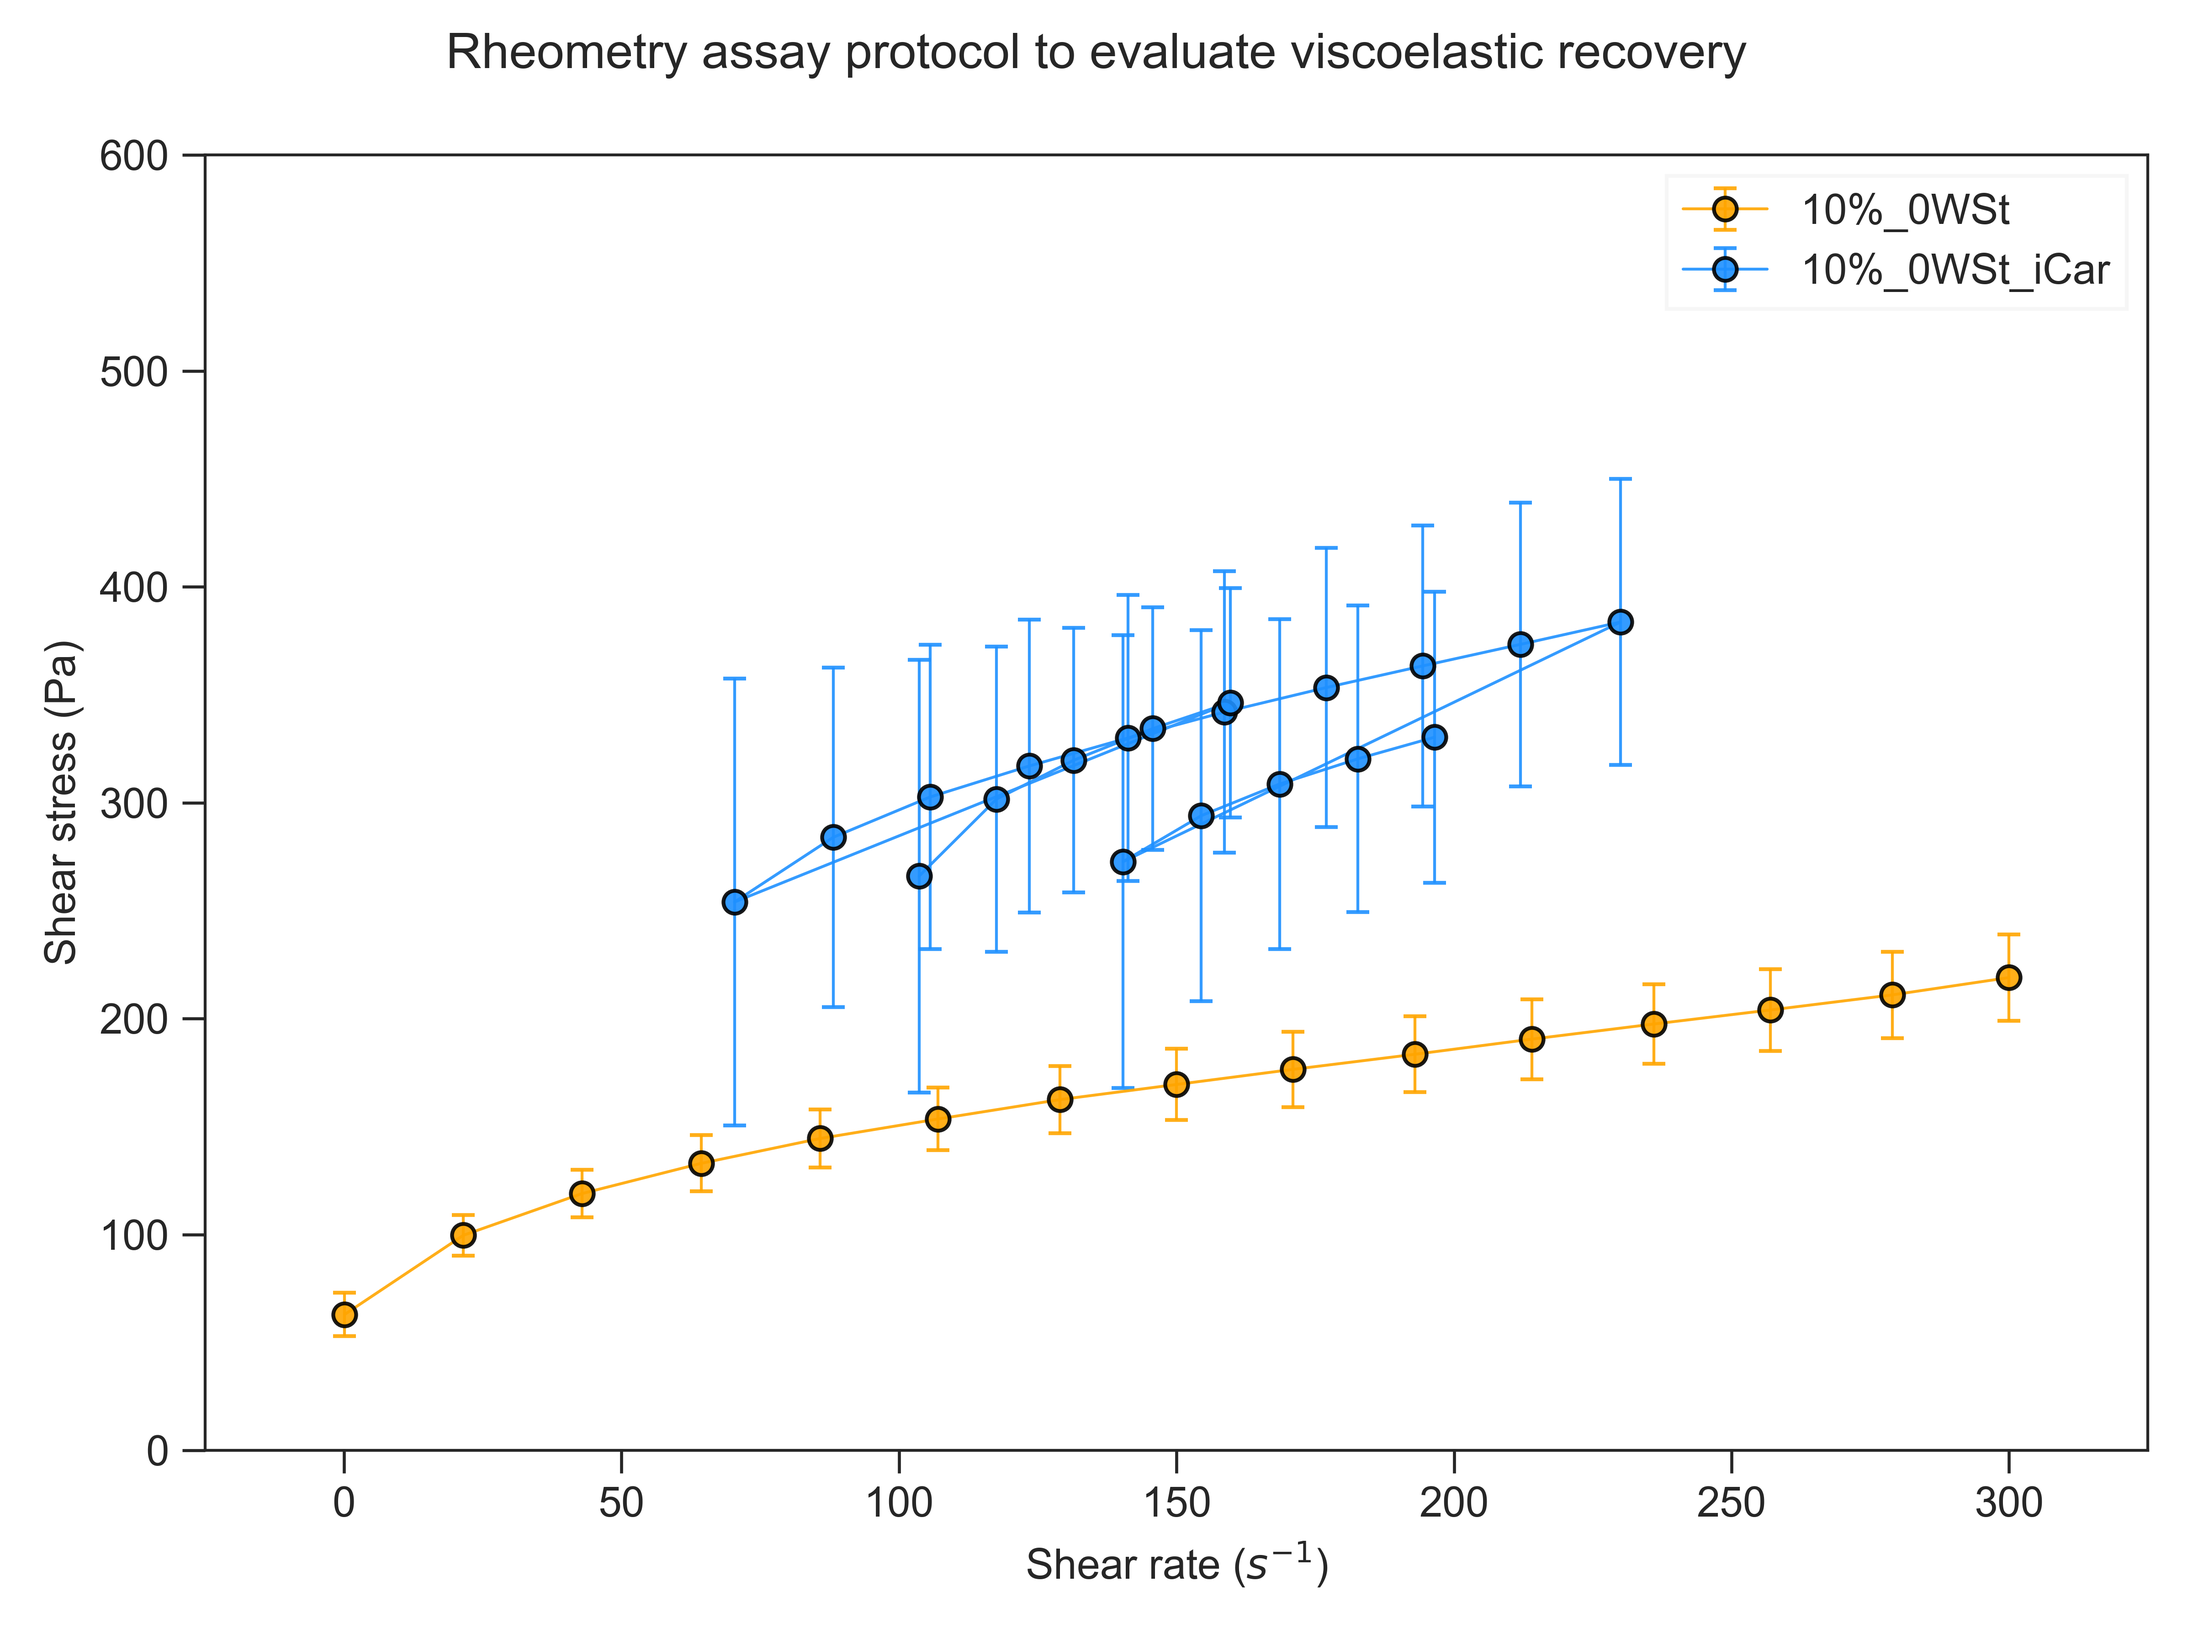
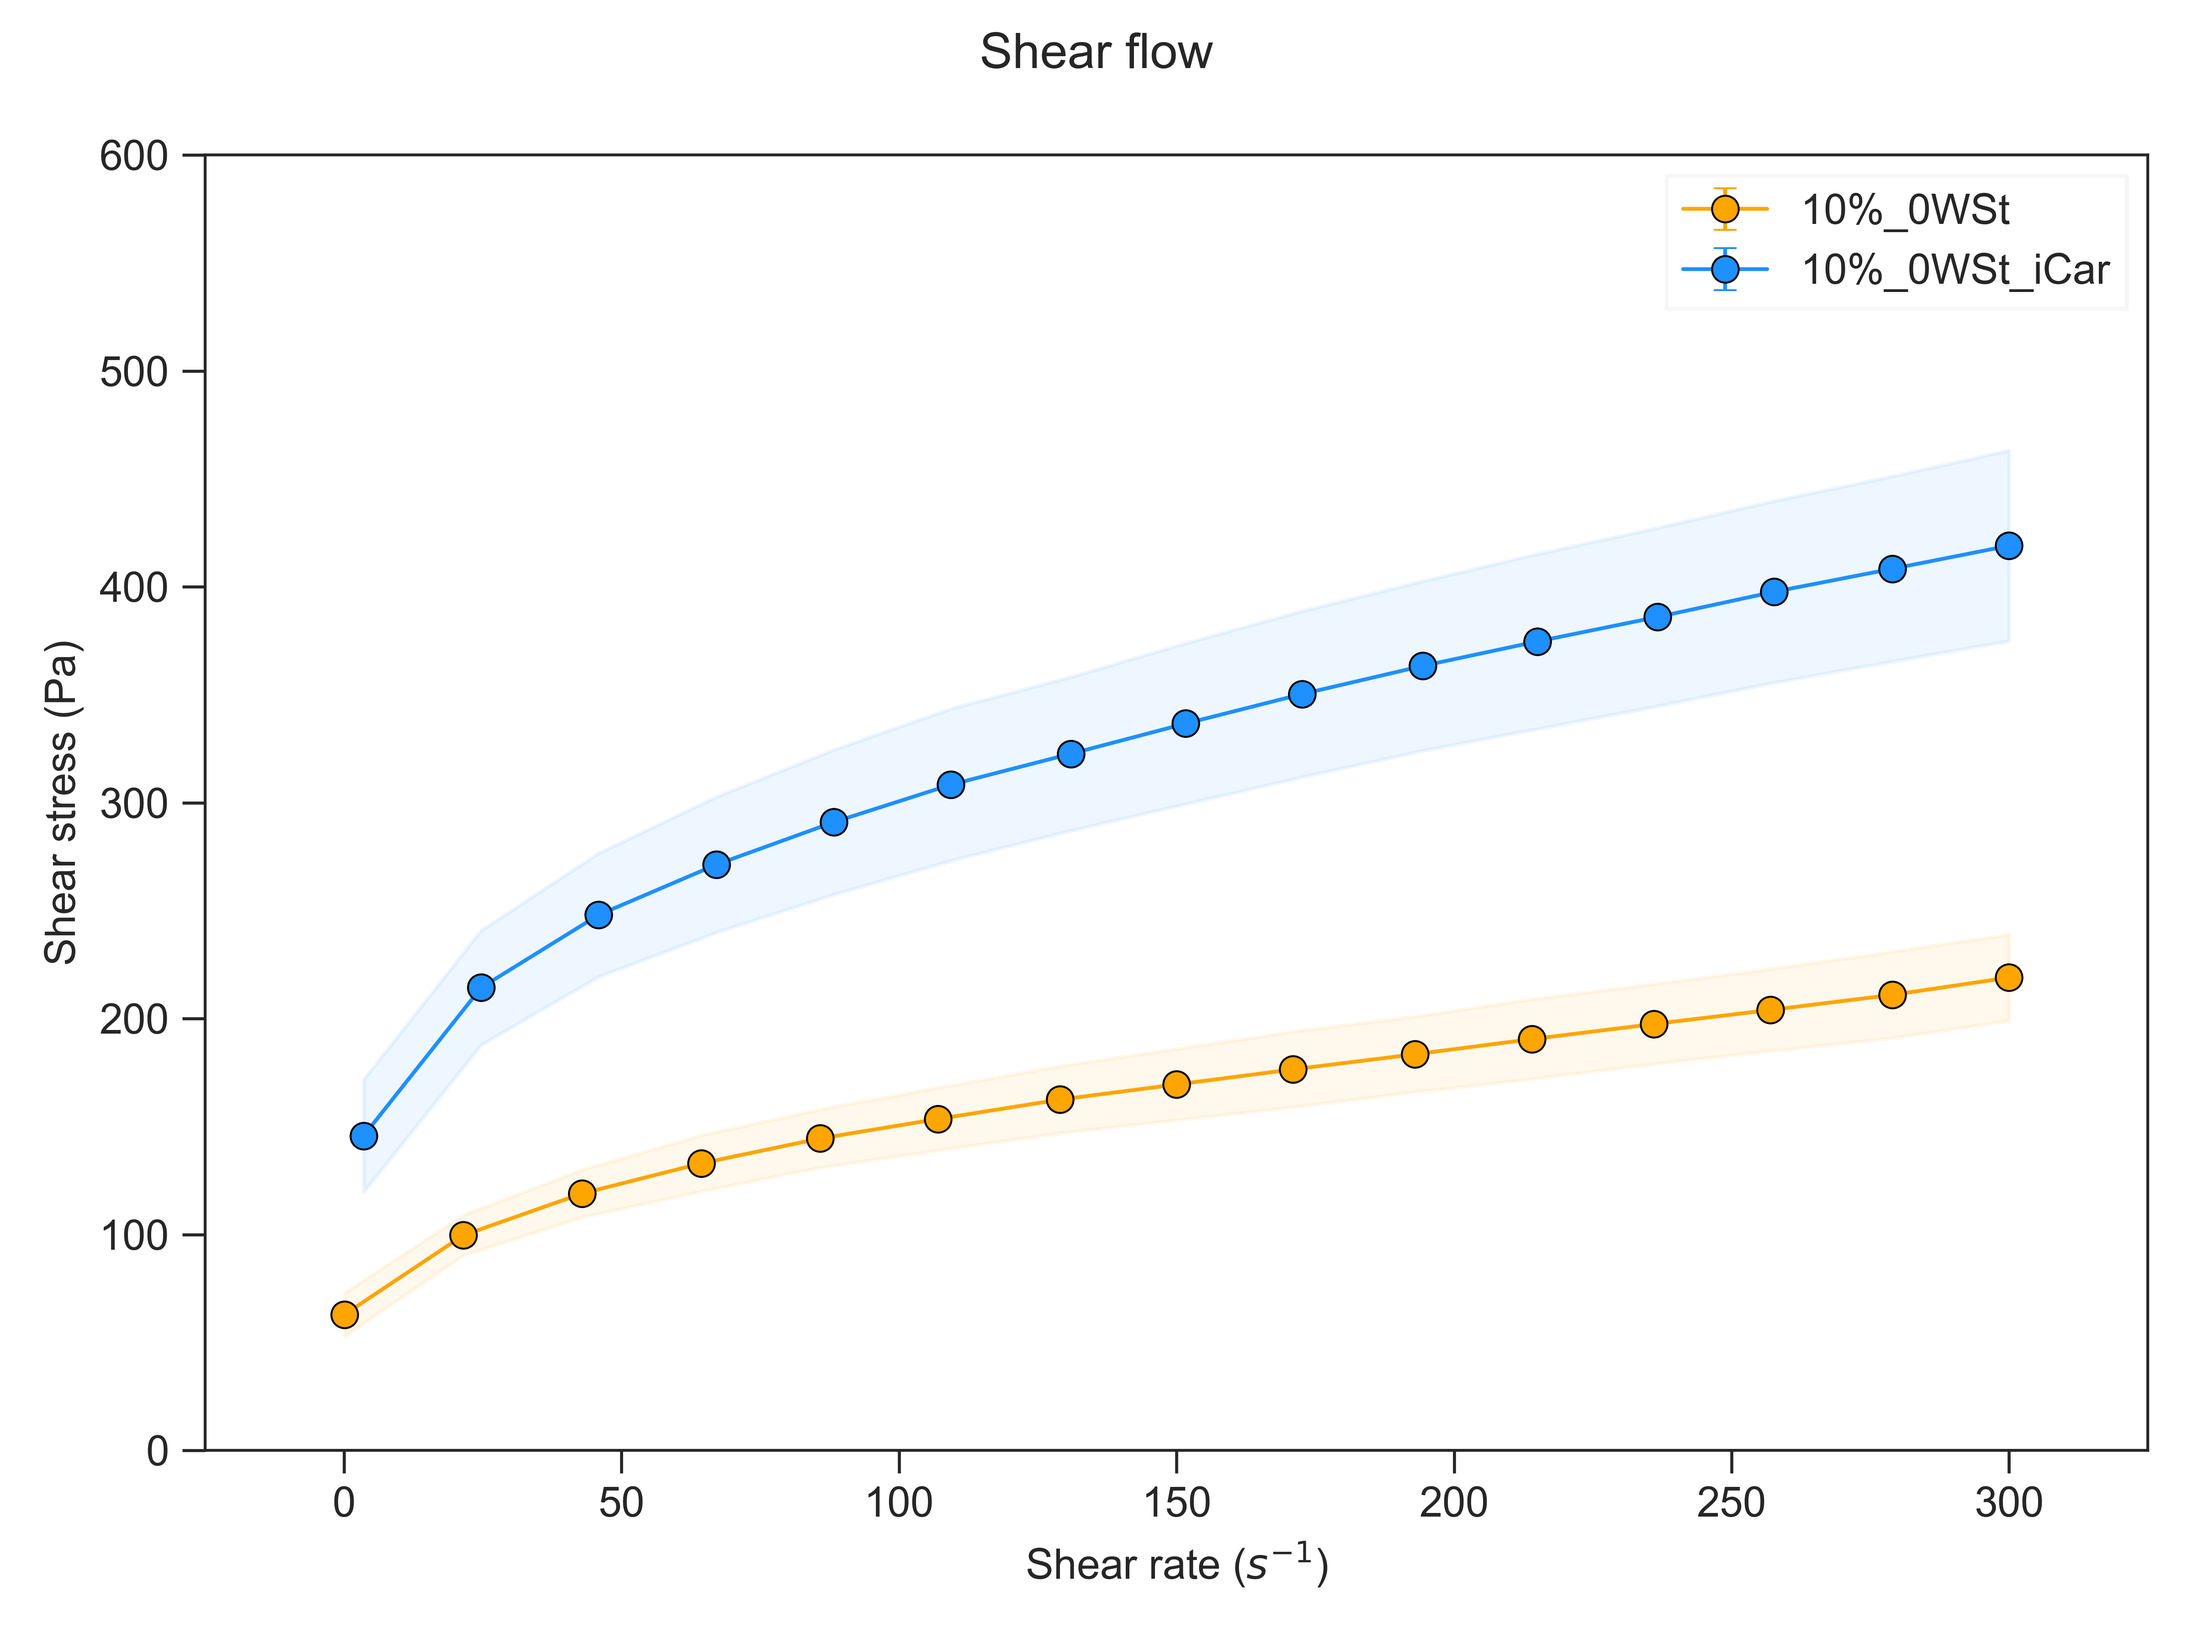
fix sample #3 and conclude code. Falta plotar o fit

diff --git a/custom plots/Plot-ShearFlow.py b/custom plots/Plot-ShearFlow.py
@@ -124,13 +124,19 @@ def getSamplesValues(dataPath, nSamplesWSt, nSamplesWStICar):
         else:
             _, indRateWStICar, indStressWStICar = dataFlow(df)
 
-            rateWStICarCte, rateWStICarDec = (np.append(rateWStICarCte, indRateWStICar[0]),
-                                              np.append(rateWStICarDec, indRateWStICar[1]))
+            if sample == 3:
+                rateWStICarCte, rateWStICarDec = (np.append(rateWStICarCte, indRateWStICar[0][::2]),
+                                                  np.append(rateWStICarDec, indRateWStICar[1][::2]))
 
-            stressWStICarCte, stressWStICarDec = (np.append(stressWStICarCte, indStressWStICar[0]),
-                                                  np.append(stressWStICarDec, indStressWStICar[1]))
+                stressWStICarCte, stressWStICarDec = (np.append(stressWStICarCte, indStressWStICar[0][::2]),
+                                                      np.append(stressWStICarDec, indStressWStICar[1][::2]))
+            else:
+                rateWStICarCte, rateWStICarDec = (np.append(rateWStICarCte, indRateWStICar[0]),
+                                                  np.append(rateWStICarDec, indRateWStICar[1]))
 
-    # Armazenar os resultados no dicionário final
+                stressWStICarCte, stressWStICarDec = (np.append(stressWStICarCte, indStressWStICar[0]),
+                                                      np.append(stressWStICarDec, indStressWStICar[1]))
+
     # Cte shear rate data
     #   Pure starch
     (dictCteRate['rateWStCte'],
@@ -140,10 +146,9 @@ def getSamplesValues(dataPath, nSamplesWSt, nSamplesWStICar):
                                                               stressWStCte.shape[0] // nSamplesWSt))
     #   Starch + iCar
     (dictCteRate['rateWStICarCte'],
-     dictCteRate['stressWStICarCte']) = (rateWStICarCte[2:].reshape(nSamplesWStICar,
-                                                                    rateWStICarCte[2:].shape[0] // nSamplesWStICar),
-                                         stressWStICarCte[2:].reshape(nSamplesWStICar,
-                                                                      stressWStICarCte[2:].shape[0] // nSamplesWStICar))
+     dictCteRate['stressWStICarCte']) = (
+    rateWStICarCte.reshape(nSamplesWStICar, rateWStICarCte.shape[0] // nSamplesWStICar),
+    stressWStICarCte.reshape(nSamplesWStICar, stressWStICarCte.shape[0] // nSamplesWStICar))
 
     # Decreasing shear rate data
     #   Pure starch
@@ -183,24 +188,23 @@ def dataFlow(dataframe):
 
 def plotFlow(
         ax, x, y, yErr,
-        axTitle, textSize, curveColor,
-        sampleName,
+        axTitle, curveColor, sampleName,
+        logScale=False,
         yFlowLim=(0, 600)
 
 ):
     """Plots the Flow Shearing Assay."""
     ax.set_title(axTitle, size=9, color='crimson')
     ax.spines[['top', 'bottom', 'left', 'right']].set_linewidth(0.75)
-
     ax.set_xlabel('Shear rate ($s^{-1}$)')
+    ax.set_xscale('log' if logScale else 'linear')
     # ax.set_xticks([cteShear])
     # ax.set_xticklabels([f'{cteShear} s'])
     ax.set_xlim([-25, +325])
-
     ax.set_ylabel('Shear stress (Pa)')
+    ax.set_yscale('log' if logScale else 'linear')
     ax.set_ylim(yFlowLim)
     # ax.set_yticks([])
-    # ax.set_yscale('log')
     # Plot cte strain rate rectangle/line
     # textCoord, textLabel = ((np.median(timeCteShear), 5),
     #                         'Constant strain rate\n$\dot{γ}=300 \,\,\, s^{-1}$')
@@ -218,11 +222,18 @@ def plotFlow(
     #         horizontalalignment='center', verticalalignment='bottom',
     #         color='k', size=textSize)
 
-    # Plot data
+    ax.fill_between(
+        (np.array(x, dtype=float)), (np.array(y, dtype=float) - yErr), (np.array(y, dtype=float) + yErr),
+        color=curveColor, alpha=0.075,
+        zorder=1)
+    # label=f'{sampleName} - Desvio Padrão', zorder=1)
+
     ax.errorbar(
-        x, y, yerr=yErr, alpha=0.9, lw=.75, linestyle='-',
-        color=curveColor, mec='k', fmt='o', markersize=6,
-        label=sampleName, zorder=3, capsize=3)
+        x, y, yerr=0, color=curveColor, alpha=1,
+        fmt='o', markersize=7, mec='k', mew=0.5,
+        capsize=3, lw=1, linestyle='-',  # ecolor='k'
+        label=sampleName, zorder=3)
+
     legendLabel(ax)
 
 
@@ -244,7 +255,7 @@ def mainPlot(dataPath):
 
     plt.style.use('seaborn-v0_8-ticks')
     fig, axes = plt.subplots(figsize=(8, 6), facecolor='w', ncols=1)
-    fig.suptitle(f'Rheometry assay protocol to evaluate viscoelastic recovery')
+    fig.suptitle(f'Shear flow')
 
     #  Plot 10% WSt
     xWSt, yWSt, yWStErr = (np.mean(decreasingShear['rateWStDec'], axis=0),
@@ -252,7 +263,7 @@ def mainPlot(dataPath):
                            np.std(decreasingShear['stressWStDec'].astype(float), axis=0))
     plotFlow(
         axes, xWSt, yWSt, yWStErr,
-        axTitle='', textSize=9.2, curveColor='orange',
+        axTitle='', curveColor='orange',
         sampleName='10%_0WSt')
 
     #  Plot 10% WSt + iCar  # TODO: consertar o nro de pontos na amostra 10%_0WSt_iCar_3
@@ -262,7 +273,7 @@ def mainPlot(dataPath):
                                           np.std(decreasingShear['stressWStICarDec'].astype(float), axis=0))
     plotFlow(
         axes, xWSt_iCar, yWSt_iCar, yWStErr_iCar,
-        axTitle='', textSize=9.2, curveColor='dodgerblue',
+        axTitle='', curveColor='dodgerblue',
         sampleName='10%_0WSt_iCar')
 
     plt.tight_layout()
